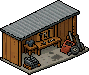
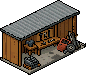
Workshop: floor front-right edge redrawn as a straight 2:1 line, engine and tyre moved 4 px back onto the slab; back-model guide updated
Claude-Session: https://claude.ai/code/session_014xWrqmw1tDuMEr3xW9Kw6Z

Changed region(s): [[0.3371, 0.4267, 1.0, 0.9867], [0.8539, 0.1333, 0.8764, 0.16], [0.7416, 0.4, 0.764, 0.4267]]

diff --git a/tools/art/fix_floor_edge_workshop.py b/tools/art/fix_floor_edge_workshop.py
@@ -1,0 +1,57 @@
+import sys
+from PIL import Image
+S='/tmp/claude-0/-home-claude/77a2a33f-40e5-51d5-92b1-709af4ea3c51/scratchpad/workshop/'
+DX,DY=int(sys.argv[1]),int(sys.argv[2])
+src=Image.open('assets/buildings/t56/workshop.png').convert('RGBA');W,H=src.size;q=src.load()
+def brown(c):
+    r,g,b,a=c; return a and r>=60 and r-b>=40 and g>=0.52*r and g<r
+def floor(c):
+    r,g,b,a=c; return a and ((abs(r-g)<=12 and 0<=r-b<=30 and r>=110) or (abs(r-g)<=8 and 0<=r-b<=20 and r>=72))
+X0,X1,Y0,Y1=61,W,30,58
+def wallbot(x): return 44-(x-60)//2
+def inobj(x,y):
+    c=q[x,y]
+    if c[3]==0 or floor(c) or brown(c): return False
+    if y<wallbot(x)-1 and max(c[:3])<=25:   # wall plank outlines
+        return False
+    return True
+obj={(x,y):q[x,y] for x in range(X0,X1) for y in range(Y0,Y1) if inobj(x,y)}
+for it in range(2):
+    add={}
+    for x in range(X0,X1):
+        for y in range(Y0,Y1):
+            if (x,y) in obj or q[x,y][3]==0 or brown(q[x,y]): continue
+            hits=sum(any((x+dx*k,y+dy*k) in obj for k in range(1,4)) for dx,dy in ((1,0),(-1,0),(0,1),(0,-1)))
+            if hits>=4: add[(x,y)]=q[x,y]
+    obj.update(add)
+im=src.copy();p=im.load()
+for (x,y) in obj:
+    if y>=wallbot(x): p[x,y]=(150,142,126,255)
+    else:
+        for k in range(1,10):
+            if 0<=x-k and brown(q[x-k,y]): p[x,y]=q[x-k,y];break
+        else: p[x,y]=(0,0,0,0)
+for (x,y),c in obj.items(): p[x+DX,y+DY]=c
+BX,BY=29,74
+def yb(x): return BY-(x-BX)//2
+RX=85
+for x in range(BX+1,W):
+    b=yb(x)
+    for y in range(max(b+1,0),H): p[x,y]=(0,0,0,0)
+    if x>RX:
+        for y in range(H): p[x,y]=(0,0,0,0)
+        continue
+    for y,c in ((b,(0,0,0,255)),(b-1,(80,80,72,255)),(b-2,(80,80,72,255))):
+        if (x-DX,y-DY) not in obj: p[x,y]=c
+# right corner: back edge up-left from (RX, yb(RX)-2)
+cy=yb(RX)
+for x in range(77,RX+1):
+    top=cy-2-(RX-x)//2
+    for y in range(0,top):
+        if p[x,y][3] and floor(p[x,y]) : p[x,y]=(0,0,0,0)
+    if (x-DX,top-DY) not in obj: p[x,top]=(0,0,0,255)
+for y in range(cy-3,cy+1): p[RX,y]=(0,0,0,255)
+im.save(S+'ws_edge.png')
+bg=Image.new('RGBA',(W,H),(255,0,255,255));bg.alpha_composite(im)
+bg.resize((W*8,H*8),Image.NEAREST).save(S+'ws_edge_x8.png')
+print(len(obj))
